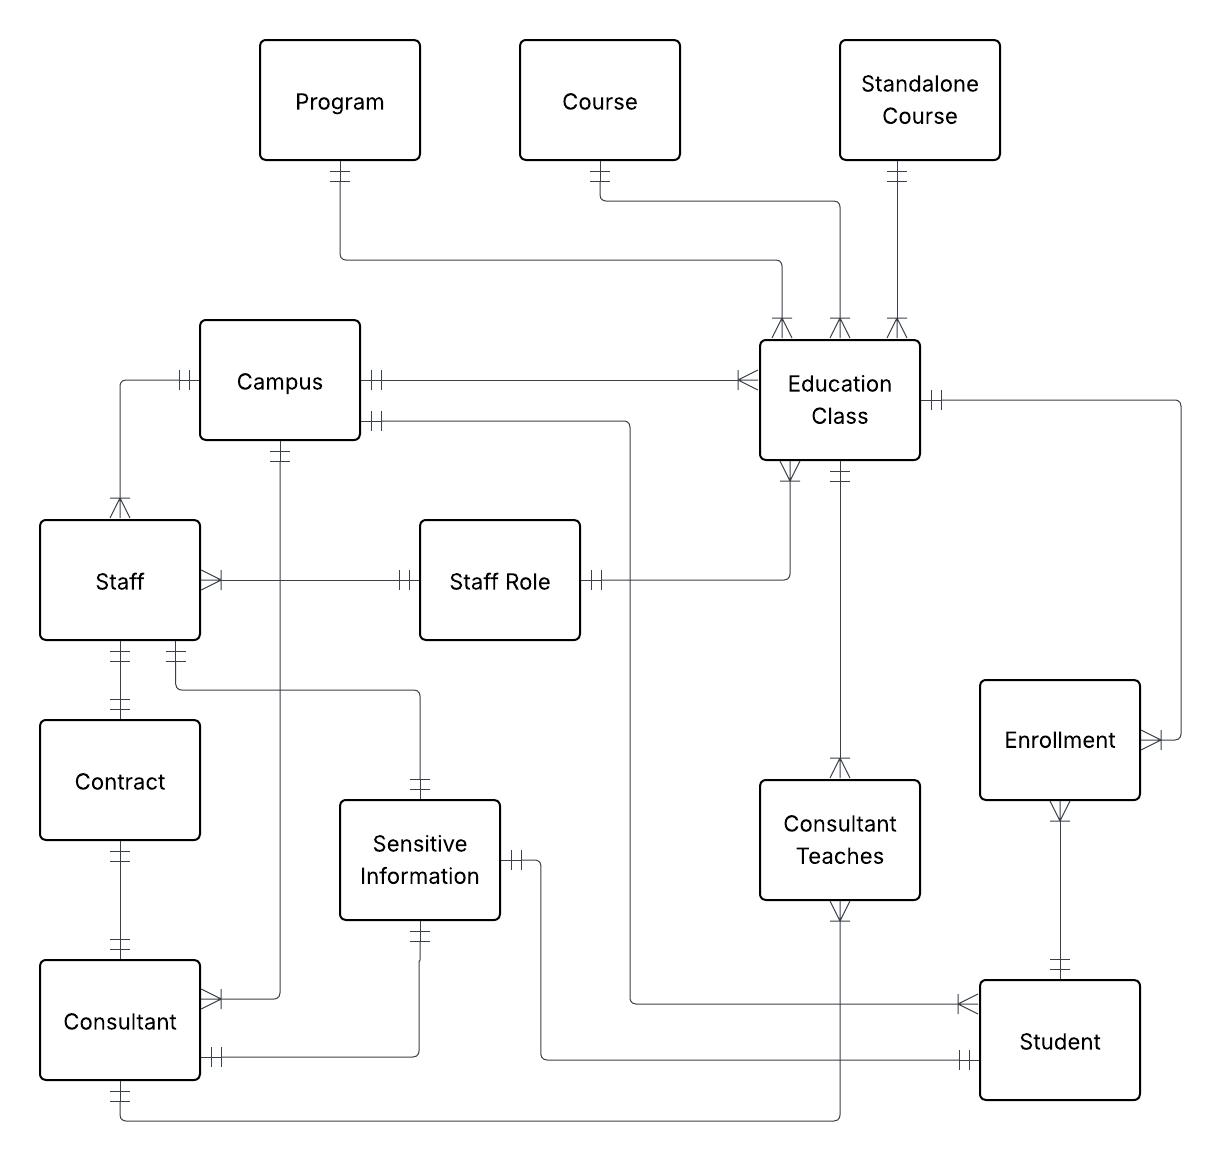
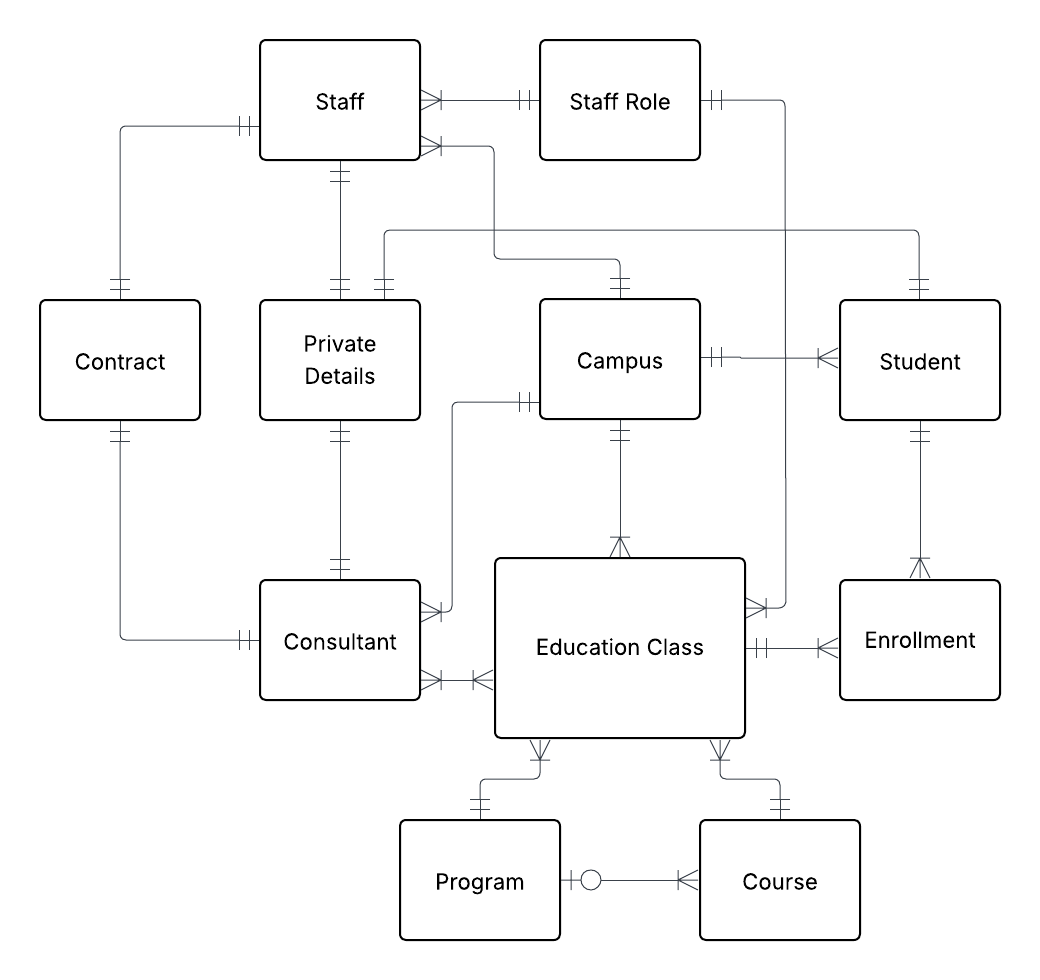
chore:conceptual and logical models and business requirements and relationships

diff --git a/documentation/conceptual.md b/documentation/conceptual.md
@@ -1,17 +1,7 @@
 # Conceptual Model
 ## Goal: 
 - Map out the big picture. Focus on the "things" (Entities) and how they relate (Relationships).
-
-## Extra Business Clarifications
-### 1. Contract of staffs:
-- A staff member has exactly **one role at a time,** defined by their **active contract.**
-- A staff member has only one role (1 role = 1 contract)
-- Consultants and staffs are assigned **strictly to one campus per contract.**
-- A role for staffs and consultants cannot change unless the **contract is ended and a new one is created.**
-- Each education class has exactly one project manager.
-- A project manager can hold at least one Education Class ie (DE 24, DE 25, AI 24, AI 25, ...)
-- The Campus table currently includes Gothenburg and Stockholm and allows future campuses to be added.
-- Planned employment of permanent instructors / consultants are handled through the Contract entity by allowing future-dated permanent contracts.
+- **The Stakeholder / the business explicitly forbids unresolved M:N, so bridge tables are already created in a CDM level.**
 
 ![Conceptual Model](../assets/Conceptual.png)
 
@@ -19,48 +9,46 @@
 
 ### Conceptual ERD – Entity Descriptions
 
+## Entity Descriptions (Easy English)
+
 | Entity | Description |
 |------|------------|
-| Student | Represents an individual enrolled in one or more education classes. |
-| Education Class | A specific round intake of a program, course or standalone course for a given year and campus. ie (DE 24, DE 25, AI 24, AI 25, ...) |
-| Program | A 2 year education consisting of multiple courses with defined credits and content. |
-| Course | A weeks long duration course with defined credits and content, not part of a program. |
-| Standalone Course | A course offered independently, not linked to a program. |
-| Campus | A physical school location where Education Classes, consultants and staffs are assigned. |
-| Staff | Internal employees such as program managers and administrative staff. |
-| Staff Role | Defines the role a staff member has in relation to an education class. For this assignment, only the Program Manager role is modeled, but the structure supports additional roles.|
-| Consultant | External personnel contracted to teach or support education classes. |
-| Consultant Teaches | Associative entity linking consultants to education classes they teach. |
-| Enrollment | Represents a student’s enrollment in an education class. |
-| Contract | Stores employment or consultancy contract information. |
-| Sensitive Information | Holds protected personal data, separated for access control. |
+| **Student** | A person who studies at the school. A student can join one program class or up to two standalone course classes in the same term, but not both at the same time. |
+| **Education Class** | A specific class offering of a program or course for a certain year and campus (for example DE 24 or AI 25). This is where teaching and student enrollment happen. |
+| **Program** | A two-year education made up of several courses, including a required internship (LIA). Each program is approved multiple times, creating several education classes over the years. |
+| **Course** | A standalone course with a set length, credits, and content. It is not part of a program and does not include an internship (LIA). |
+| **Campus** | A physical school location where classes take place and where staff and consultants work. The model allows new campuses to be added in the future. |
+| **Staff** | Employees of the school, such as program managers and administrative staff. Each staff member has one active role at a time, defined by their contract. |
+| **Staff Role** | Describes the job role a staff member has during an active contract. In this model, only the Program Manager role is included, but more roles can be added later. |
+| **Consultant** | External people hired to teach or support classes. Consultants work under contracts that define their role, campus, and time period. |
+| **Enrollment** | Shows that one student is enrolled in one education class. It connects students to the classes they attend. |
+| **Contract** | A work agreement for staff or consultants. It defines the role, campus, and time period, and allows future-dated contracts for planned hires. |
+| **Private Details** | Stores sensitive personal or company information, such as personal identity numbers, contact details, and consultant company data. This information is kept separate for security reasons. |
+
 
 
 ## Relationship Description:
 
-| Entity A          | Entity B              | Cardinality | Relationship Statement                                                   |
-| ----------------- | --------------------- | ----------- | ------------------------------------------------------------------------ |
-| Program           | Education Class       | 1 → many    | One program is taught in multiple education classes (approval years).    |
-| Course            | Education Class       | 1 → many    | One course can be taught in multiple education classes.                  |
-| Standalone Course | Education Class       | 1 → many    | One standalone course can be offered through multiple education classes. |
-| Campus            | Education Class       | 1 → many    | One campus hosts multiple education classes.                             |
-| Campus            | Staff                 | 1 → many    | One campus employs many staff members.                                   |
-| Campus            | Consultant            | 1 → many    | One campus employs many consultants.                                     |
-| Campus            | Student               | 1 → many    | One campus takes many students.                                          |
-| Staff             | StaffRole             | many → 1    | One staff member has the one role (one role = one contract rule).        |
-| StaffRole         | Staff                 | 1  → many   | Each staff role can be assigned to different staff members.              |
-| StaffRole         | Education Class       | 1  → many   | A staff role can handle multiple education classes. ie.(Each program manager is responsible for three classes )|
-| Education Class   | Staff Role            | many  → 1   | Each Education Class can be handled by one Staff Roles                  |
-| Staff             | Contract              | 1 → 1       | Each staff member can have one set of active contract.                   |
-| Staff             | Sensitive Information | 1 → 1       | Each staff member has exactly one set of sensitive personal data.        |
-| Consultant        | Contract              | 1 → 1       | Each staff member can have one set of active contract.                   |
-| Consultant        | Sensitive Information | 1 → 1       | Each consultant has exactly one set of sensitive personal data.          |
-| Consultant        | Consultant Teaches    | 1 → many    | One consultant can teach multiple education classes.                     |
-| ConsultantTeaches | Consultant            | many → 1    | Each teaching assignment belongs to exactly one consultant.              |
-| Education Class   | Consultant Teaches    | 1 → many    | One education class can be taught by multiple consultants.               |
-| ConsultantTeaches | EducationClass        | many → 1    | Each teaching assignment belongs to exactly one education class.         |
-| Education Class   | Enrollment            | 1 → many    | One education class has many student enrollments.                        |
-| Enrollment        | EducationClass        | many → 1    | Each enrollment belongs to exactly one education class.                  |
-| Student           | Enrollment            | 1 → many    | One student can be enrolled in multiple education classes.               |
-| Enrollment        | Student               | many → 1    | Each enrollment belongs to exactly one student.                          |
-| Student           | Sensitive Information | 1 → 1       | Each student has exactly one set of sensitive personal data.             |
+| Entity A | Entity B | Cardinality | Relationship Statement |
+|--------|----------|------------|------------------------|
+| **Program** | **Education Class** | 1 → many | One program is approved and delivered through multiple education classes over different years. |
+| **Course** | **Education Class** | 1 → many | One course can be delivered through multiple education classes over time. |
+| **Campus** | **Education Class** | 1 → many | One campus hosts multiple education classes. |
+| **Staff** | **Contract** | 1 → 1 (active) | Each staff member has exactly one active contract at a time that defines their role and campus assignment. |
+| **Consultant** | **Contract** | 1 → 1 (active) | Each consultant has exactly one active contract at a time defining their assignment and campus. |
+| **Staff Role** | **Contract** | 1 → many | A staff role can be assigned to many contracts over time, but each contract defines exactly one role. |
+| **Staff** | **Staff Role** | many → 1 (via Contract) | Each staff member holds exactly one role at a time, as defined by their active contract. |
+| **Education Class** | **Staff (Program Manager)** | many → 1 | Each education class is managed by exactly one staff member acting as Program Manager. |
+| **Staff (Program Manager)** | **Education Class** | 1 → many | One program manager is responsible for multiple education classes (minimum three). |
+| **Consultant** | **Consultant Teaches** | 1 → many | One consultant can teach multiple education classes. |
+| **Education Class** | **Consultant Teaches** | 1 → many | One education class can be taught by multiple consultants. |
+| **Consultant Teaches** | **Consultant** | many → 1 | Each teaching assignment belongs to exactly one consultant. |
+| **Consultant Teaches** | **Education Class** | many → 1 | Each teaching assignment belongs to exactly one education class. |
+| **Education Class** | **Enrollment** | 1 → many | One education class has many student enrollments. |
+| **Enrollment** | **Education Class** | many → 1 | Each enrollment belongs to exactly one education class. |
+| **Student** | **Enrollment** | 1 → many | One student can have multiple enrollments over time, but each enrollment represents one class. |
+| **Enrollment** | **Student** | many → 1 | Each enrollment belongs to exactly one student. |
+| **Student** | **Private Details** | 1 → 1 | Each student has exactly one set of private personal information. |
+| **Staff** | **Private Details** | 1 → 1 | Each staff member has exactly one set of private personal information. |
+| **Consultant** | **Private Details** | 1 → 1 | Each consultant has exactly one set of private personal or company-related information. |
+

diff --git a/documentation/business_requirements.md b/documentation/business_requirements.md
@@ -1,0 +1,30 @@
+# Business Clarifications
+### 1. Staffs, Consultants and Roles
+- Instructors: Can be permanent staff or external consultants.
+- Program Managers: Staff members who must manage at least three Education Classes. 
+- Each Education Class has exactly one manager. Can hold Education Class ie. (DE 24, DE 25, AI 24, AI 25, ...)
+- A staff member has exactly **one role at a time,** defined by their **active contract.**<br>
+
+#### 2. Program vs. Course (BONUS)
+- A Program consists of multiple courses over time.
+- A student can either:
+    - enroll in one program, or
+    -enroll in up to two (max) standalone courses per term.
+- A student cannot be enrolled in a program and standalone courses at the same time.
+- Enrollment represents exactly one student in exactly one education class.
+- A Course can belong to zero or one Program (standalone allowed)
+- Course must be either program or standalone (never both)
+- `program_id` IS `NOT NULL` → course is part of a program
+- `program_id` IS `NULL` → course is standalone
+
+### 3. System & Data Design
+- Security: Sensitive personal data is isolated in a separate table for strict access control. Sensitive Informations is in a separate secured table. It tracks company staffs and consultant details (Org#, F-tax, address, hourly rates, etc) and cannot be accessed publicly.
+- Planned employment of permanent instructors / consultants are handled through the Contract entity by allowing future-dated permanent contracts.
+<br>
+- Contracts: Used to manage staff roles and pre-plan future permanent hires.
+- A role for staffs and consultants cannot change unless the **contract is ended and a new one is created.**
+- Campus: Consultants and staffs are assigned **strictly to one campus per contract.**
+- The Campus table currently includes Gothenburg and Stockholm and allows future campuses to be added.
+<br>
+- Locations: Currently Gothenburg and Stockholm, but built to add more cities easily.
+- Flexibility: The model is built to allow new rules later without redesigning the foundation.
